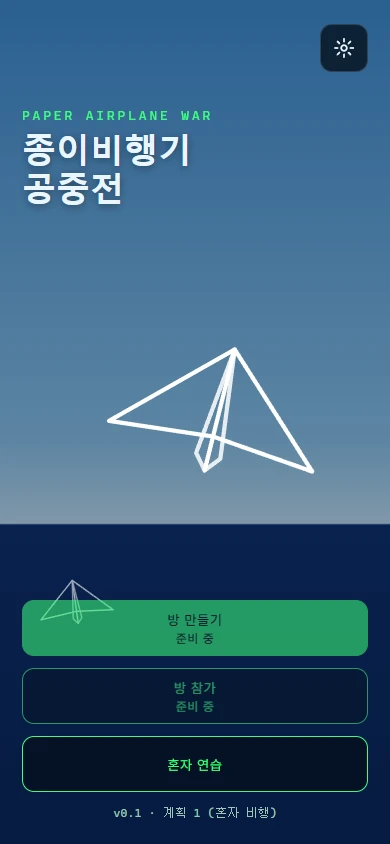
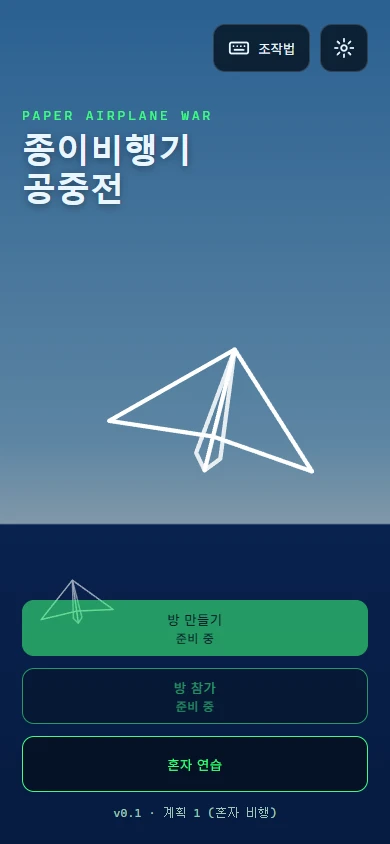
배포 (60bdd18)

Changed region(s): [[0.5231, 0.0308, 0.8, 0.0924]]

diff --git a/games.js b/games.js
@@ -6,17 +6,17 @@ var GAMES = [
     title: '종이비행기 공중전',
     pitch: '흰 선으로 그린 종이비행기를 실제 같은 비행 물리로 모는 3D 공중전',
     goal: '지금은 혼자 비행 연습 (대전은 준비 중)',
-    rules: ['화면 아무 곳이나 끌어 조종 (당기면 기수 ↑)', '오른쪽 막대로 엔진 출력', '급선회하면 속도를 잃고, 느리면 실속'],
-    tags: ['1명', '3D 비행', '세로 화면'],
+    rules: ['화면 아무 곳이나 끌어 조종 (키보드: 방향키)', '오른쪽 막대로 엔진 출력 (키보드: R / F)', '급선회하면 속도를 잃고, 느리면 실속'],
+    tags: ['1명', '키보드 지원', '가로 화면', '3D 비행'],
     url: 'https://woomars.github.io/paper_airplane_war/',
   },
   {
     id: 'makta',
     title: '막타',
-    pitch: '폭탄 카드로 서로 공격하며 손패를 먼저 비우는 가족 카드 게임',
+    pitch: '폭탄 카드로 서로 공격하며 손패를 먼저 비우는 카드 게임',
     goal: '손패를 먼저 다 내기',
     rules: ['같은 색이나 숫자 내기', '폭격으로 상대 공격', '한 장 남으면 막타!'],
-    tags: ['2~10명', '봇 대전', '카드 게임'],
+    tags: ['2~10명', '인터넷 대전', '봇 대전', '세로 화면', '카드 게임'],
     url: 'https://woomars.github.io/makta/',
   },
   {
@@ -25,16 +25,16 @@ var GAMES = [
     pitch: '느리지만 잘 도는 비행기 vs 빠르지만 잘 못 도는 미사일, 1:1 추격전',
     goal: '미사일일 때 더 많이 격추하기',
     rules: ['한 명은 비행기, 한 명은 미사일', '상대가 화면 밖이면 방향 화살표만 보임', '2라운드 역할 교대, 격추 수로 승부'],
-    tags: ['2명', '인터넷 대전', '봇 대전', '가로 화면'],
+    tags: ['2명', '인터넷 대전', '봇 대전', '키보드 지원', '가로 화면'],
     url: 'https://woomars.github.io/skyhunt/',
   },
   {
     id: 'yeogiyo',
     title: '여기요!',
-    pitch: '같은 메뉴가 딱 5개면 벨을 누르는 가족용 반응 속도 카드 게임',
+    pitch: '같은 메뉴가 딱 5개면 벨을 누르는 반응 속도 카드 게임',
     goal: '카드를 모두 모으기',
     rules: ['차례대로 카드 한 장씩 뒤집기', '같은 메뉴 합이 5면 벨!', '틀리면 한 장씩 벌칙'],
-    tags: ['2~4명', '같은 와이파이', '반응 속도'],
+    tags: ['2~4명', '같은 와이파이 대전', '카드 게임', '반응 속도'],
     url: 'https://woomars.github.io/yeogiyo/',
   },
   {
@@ -43,7 +43,7 @@ var GAMES = [
     pitch: '실제 주가로 기업 몬스터를 쓰러뜨리는 로그라이크',
     goal: '몬스터를 쓰러뜨리고 Clear',
     rules: ['실제 과거 주가 구간에서 사고팔기', '계좌가 곧 목숨', '죽으면 내공으로 영구 강화'],
-    tags: ['1명', '로그라이크', '실제 주가'],
+    tags: ['1명', '세로 화면', '로그라이크', '실제 주가'],
     url: 'https://woomars.github.io/stock-rpg/',
   },
   {
